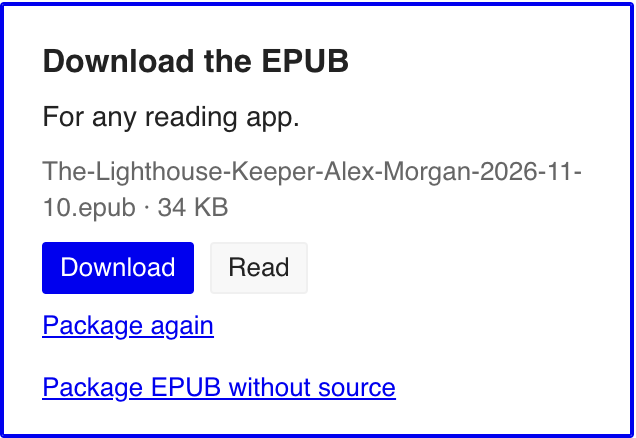
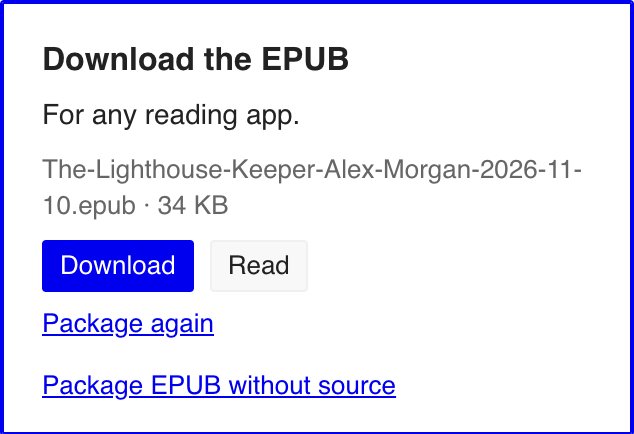
fix(manual-shots): round crops inward to whole pixels
A centred dialog sits at a fractional position, and the element
screenshot rounded its crop outward, taking a row of the page behind
(visible as a line of text along the New book shot's top edge). Clip
with the box rounded inward instead. Recaptured the two shots it changed.

diff --git a/scripts/capture-manual-shots.js b/scripts/capture-manual-shots.js
@@ -58,7 +58,20 @@ async function captureManualShots() {
       await page.waitForTimeout(1000);
 
       fs.mkdirSync(path.dirname(out), { recursive: true });
-      await target.screenshot({ path: out });
+      // Round the crop inward: an element at a fractional position (a centred
+      // dialog) would otherwise take a row of whatever is behind it.
+      await target.scrollIntoViewIfNeeded();
+      const box = await target.boundingBox();
+      if (!box) throw new Error(`${shot.clip} has no layout box`);
+      const x = Math.ceil(box.x);
+      const y = Math.ceil(box.y);
+      const clip = {
+        x,
+        y,
+        width: Math.floor(box.x + box.width) - x,
+        height: Math.floor(box.y + box.height) - y,
+      };
+      await page.screenshot({ path: out, clip });
       console.log(`✅ Wrote ${out}`);
     } catch (error) {
       failures += 1;
